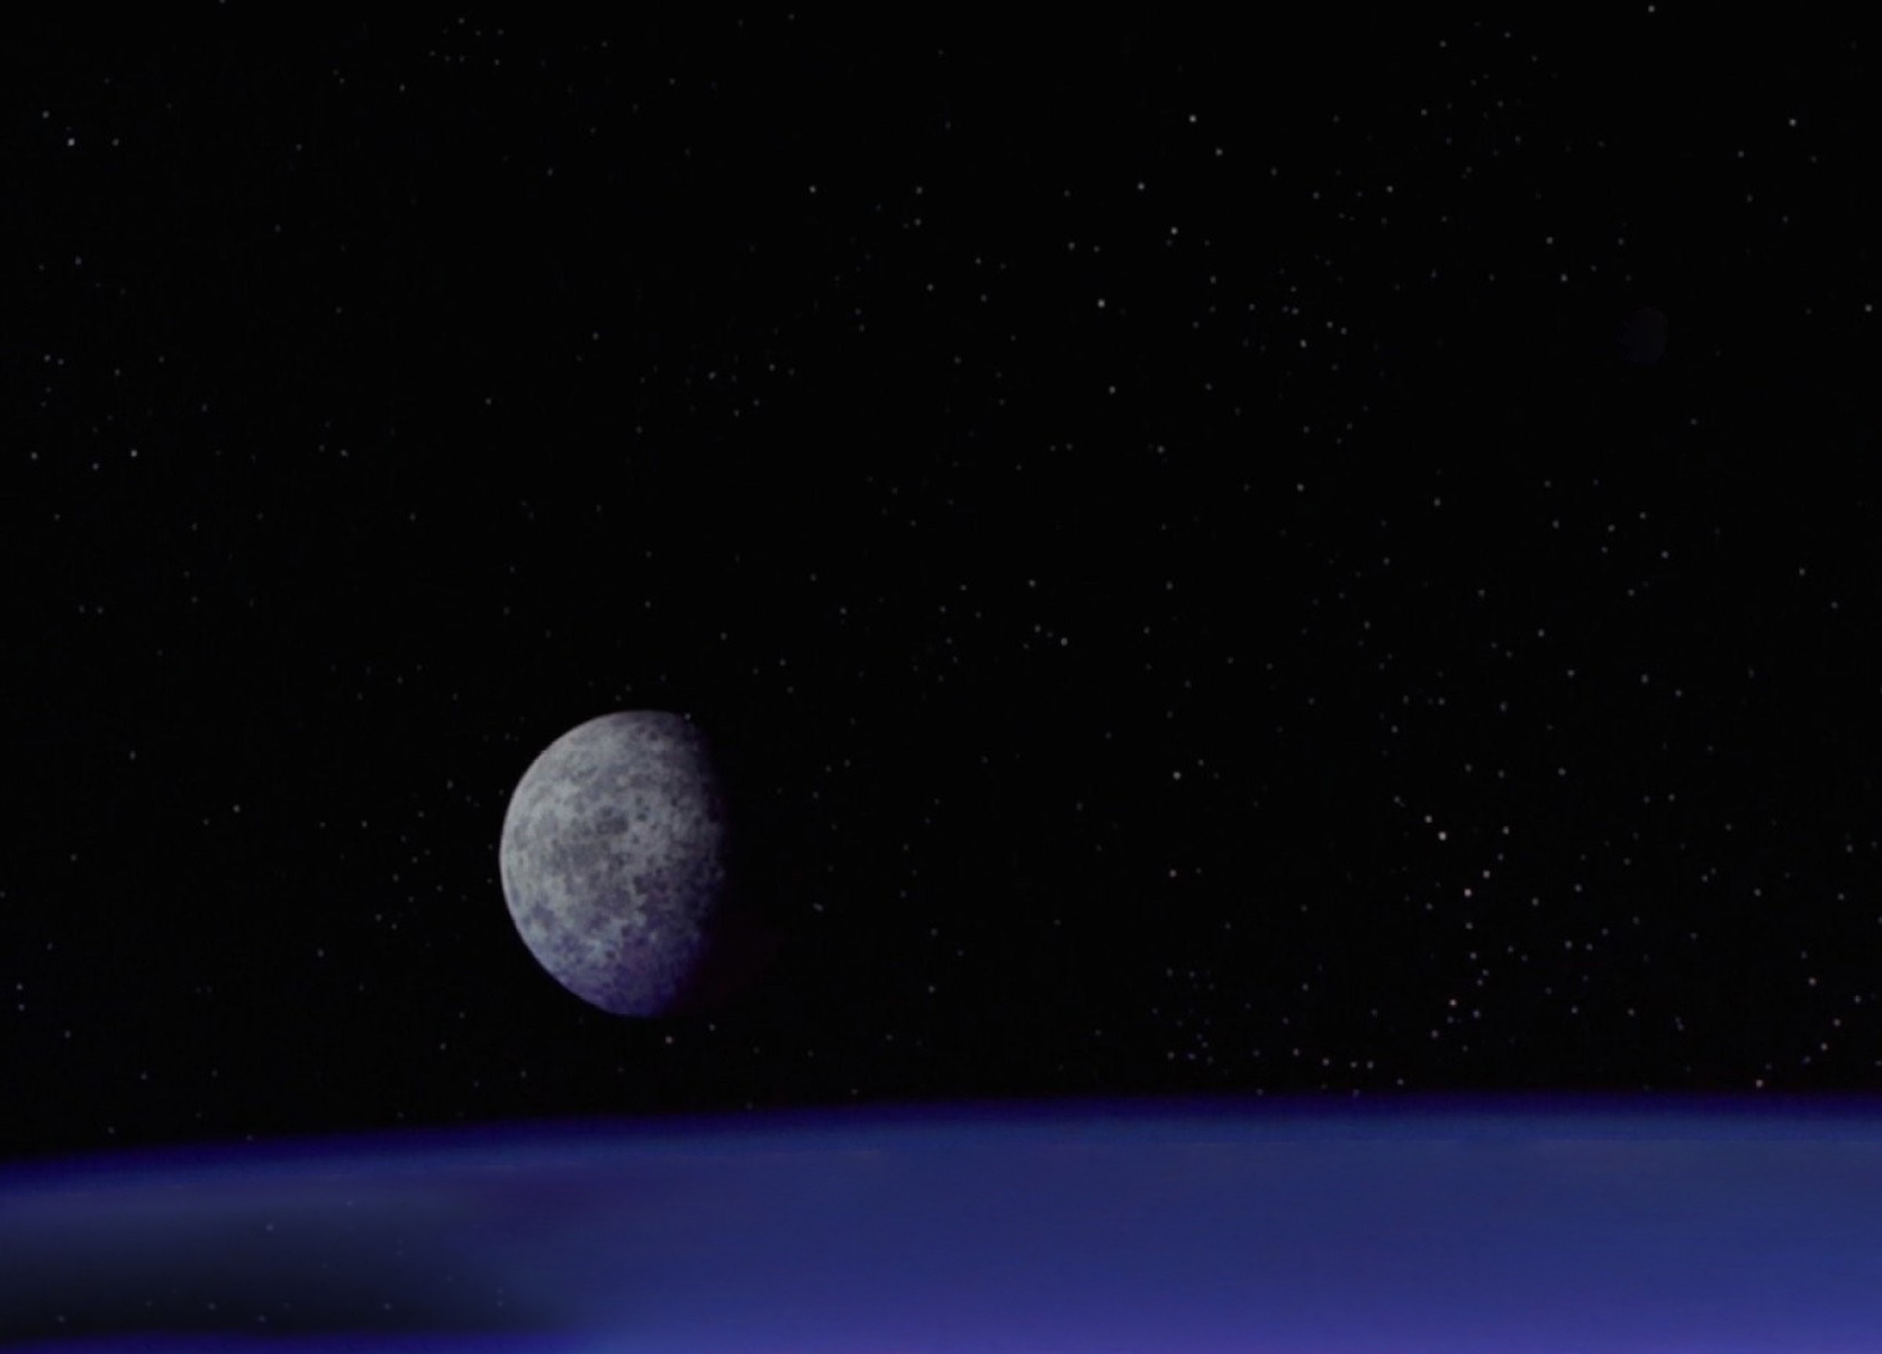
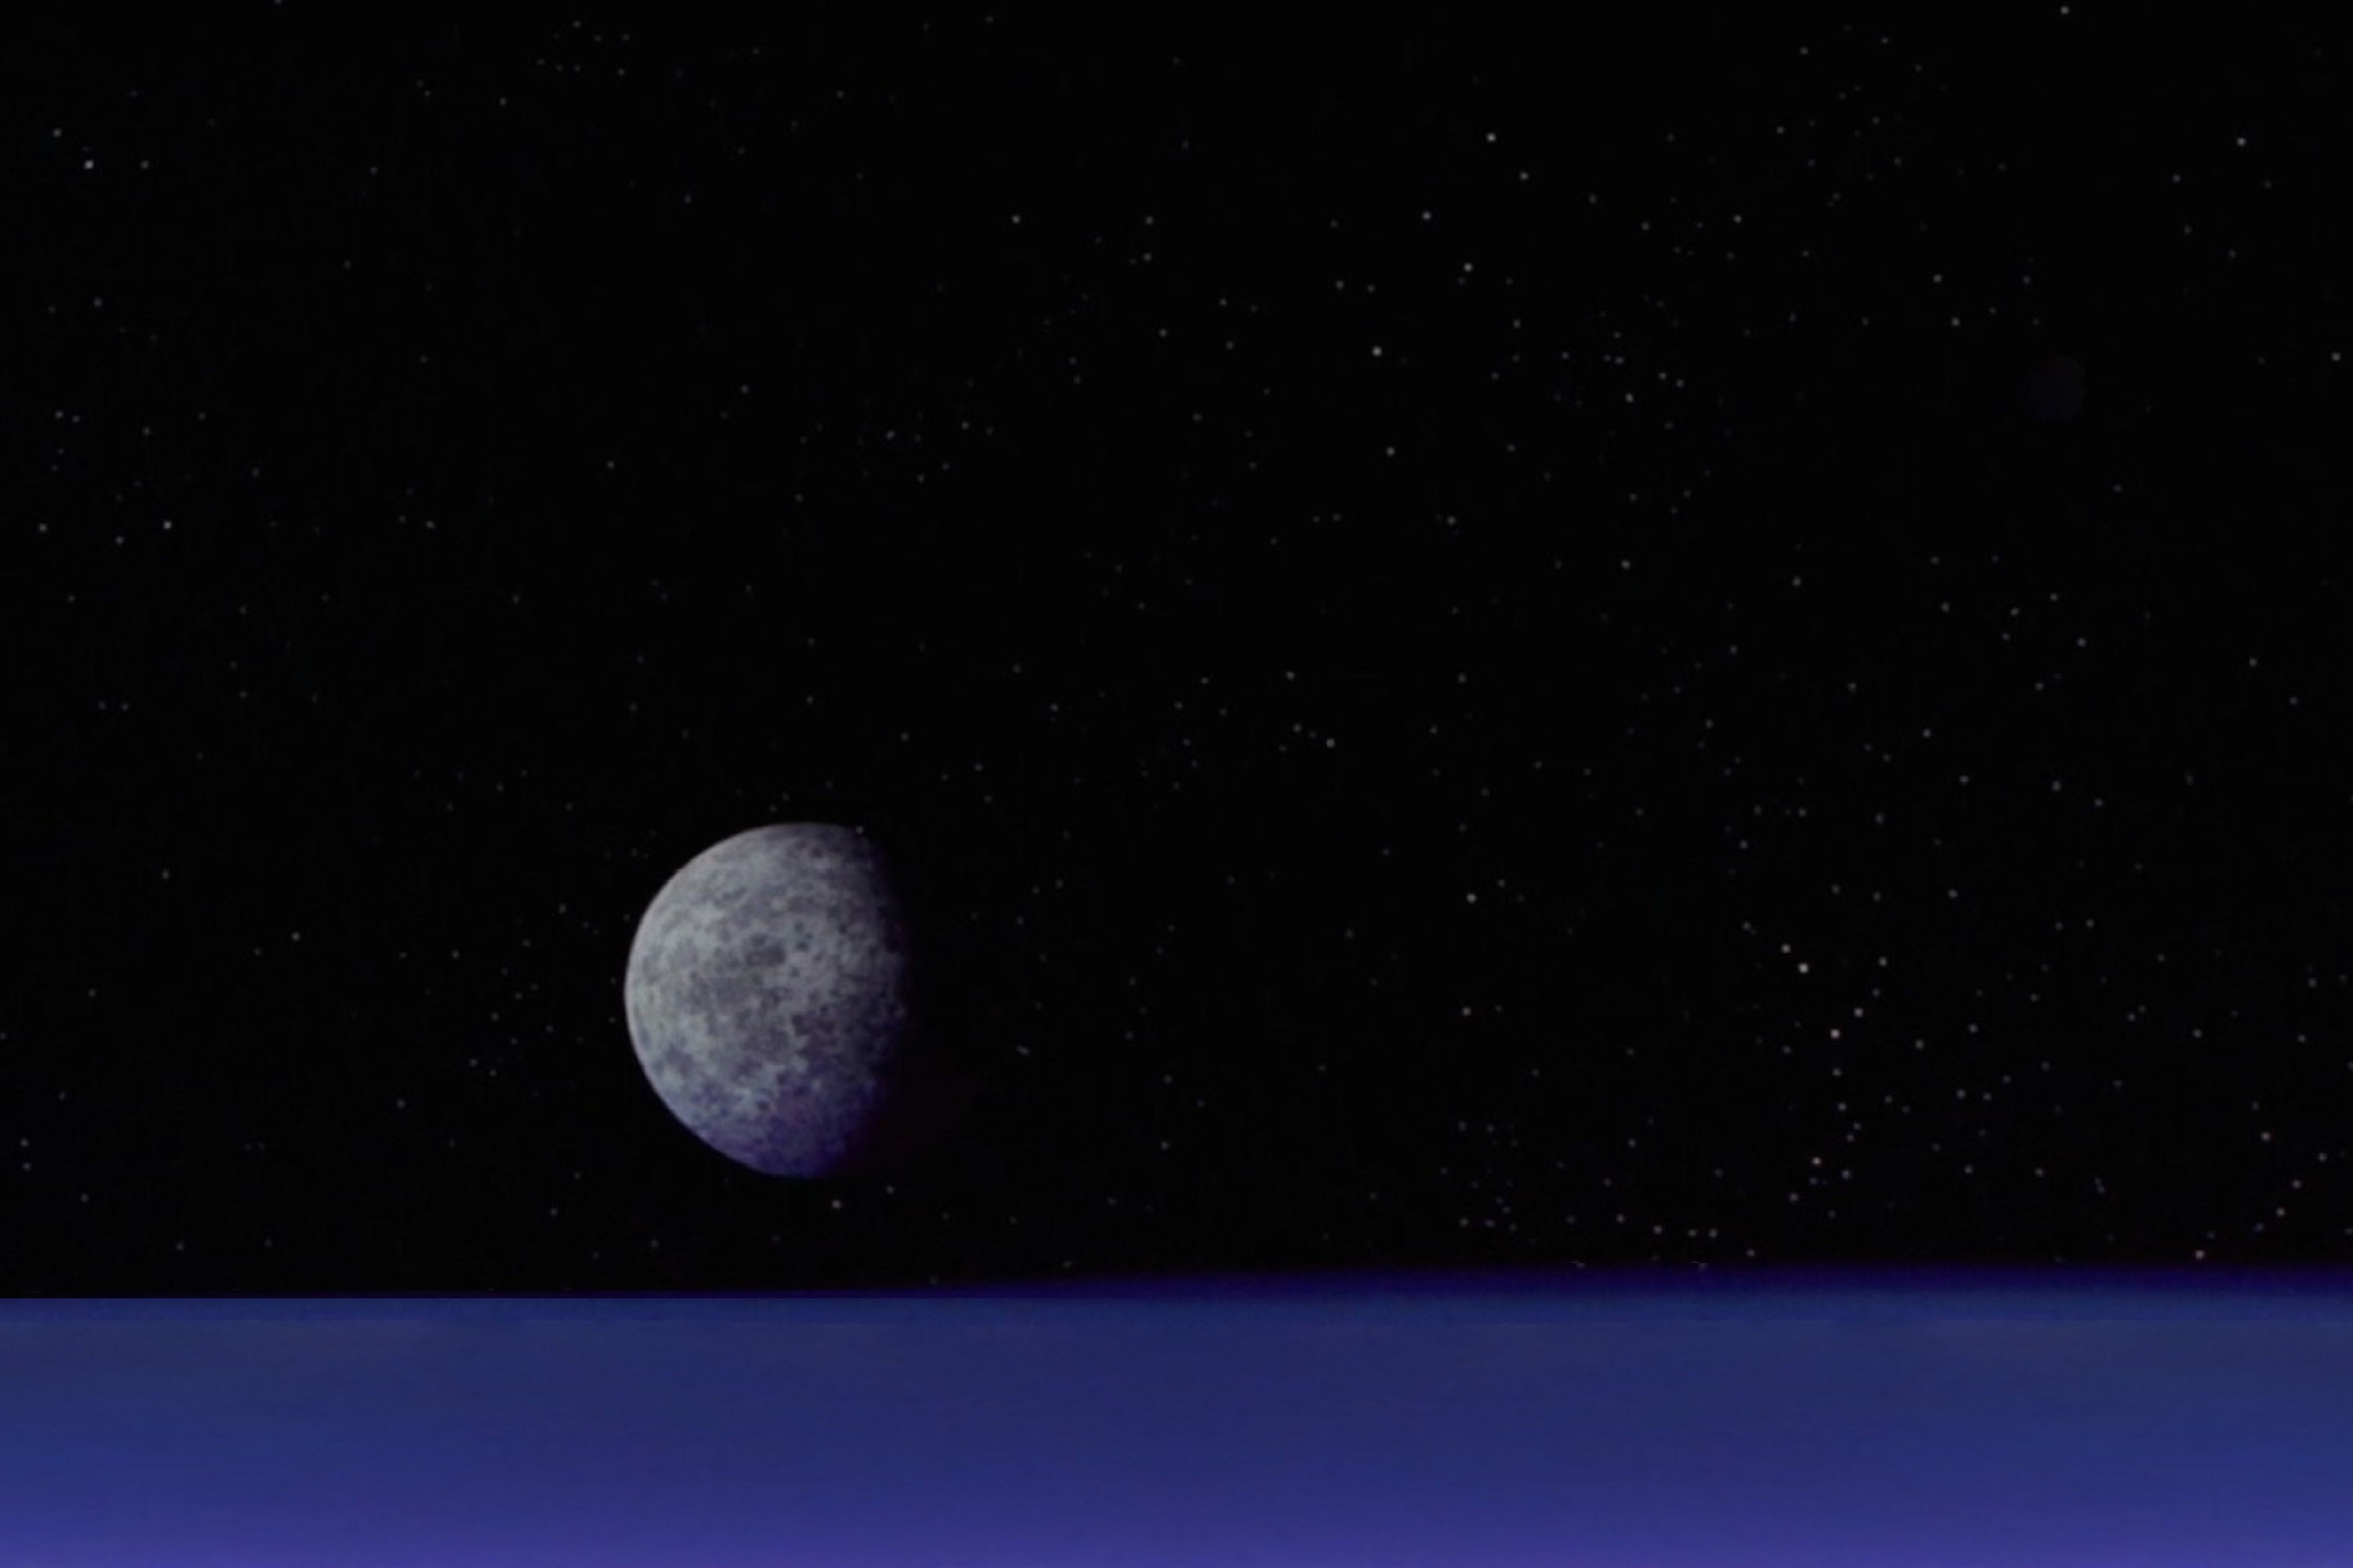
Background Fixed

Changed region(s): [[0.0, 0.7979, 0.375, 1.0]]

diff --git a/src/script.js b/src/script.js
@@ -1,5 +1,9 @@
-var canvasWidth = 800;
-var canvasHeight = 600;
+// For scale the background
+const backgroundHeight = 2000;
+const backgroundWidth = 3000;
+var canvasWidth = 1000;
+var canvasHeight = (canvasWidth*backgroundHeight)/backgroundWidth;
+// For scale the background
 
 var config = {
   type: Phaser.AUTO,
@@ -31,7 +35,8 @@ var coins;
 var notes = [];
 var score = 0;
 var scoreText;
-var background;
+var background1;
+var background2;
 
 /*function Note(name, duration, pause) {
   this.noteName = name;
@@ -39,9 +44,11 @@ var background;
   this.pause = pause;
 }*/
 
-//
-var x = 0;
-var y = 0;
+//Variables for background
+var setBackgroundScale = canvasWidth/backgroundWidth;
+var x1 = 0;
+var x2 = canvasWidth;
+var backgroundSpeed = 2;
 //
 
 function preload ()
@@ -58,9 +65,14 @@ function preload ()
 
 function create ()
 {
-  this.add.image(400, 300, 'sky');
-  //background = this.physics.add.sprite(400, 300, 'sky');
-  //background.setVelocityX(-10);
+  background1 = this.physics.add.sprite(x1, 0, 'space1').setOrigin(0,0);
+  background2 = this.physics.add.sprite(x2, 0, 'space2').setOrigin(0,0);
+  background1.setScale(setBackgroundScale);
+  background2.setScale(setBackgroundScale);
+  background1.setVelocityX(- backgroundSpeed);
+  background2.setVelocityX(- backgroundSpeed);
+
+  //background.setVelocityX(+1);
 
   //platforms = this.physics.add.staticGroup();
   //platforms.create(400, 568, 'ground').setScale(2).refreshBody();
@@ -136,6 +148,13 @@ function update ()
     }else if(keys.K.isDown){
       player.x = arrayStep[12];
     }
+  
+  if (background1.x < -canvasWidth) background1.x = canvasWidth + background2.x - backgroundSpeed;
+  else background1.x = background1.x - backgroundSpeed; 
+  
+  if (background2.x < -canvasWidth) background2.x = canvasWidth + background1.x - backgroundSpeed;
+  else background2.x = background2.x - backgroundSpeed; 
+      
 }
 
 function collectCoin (player, coin)
